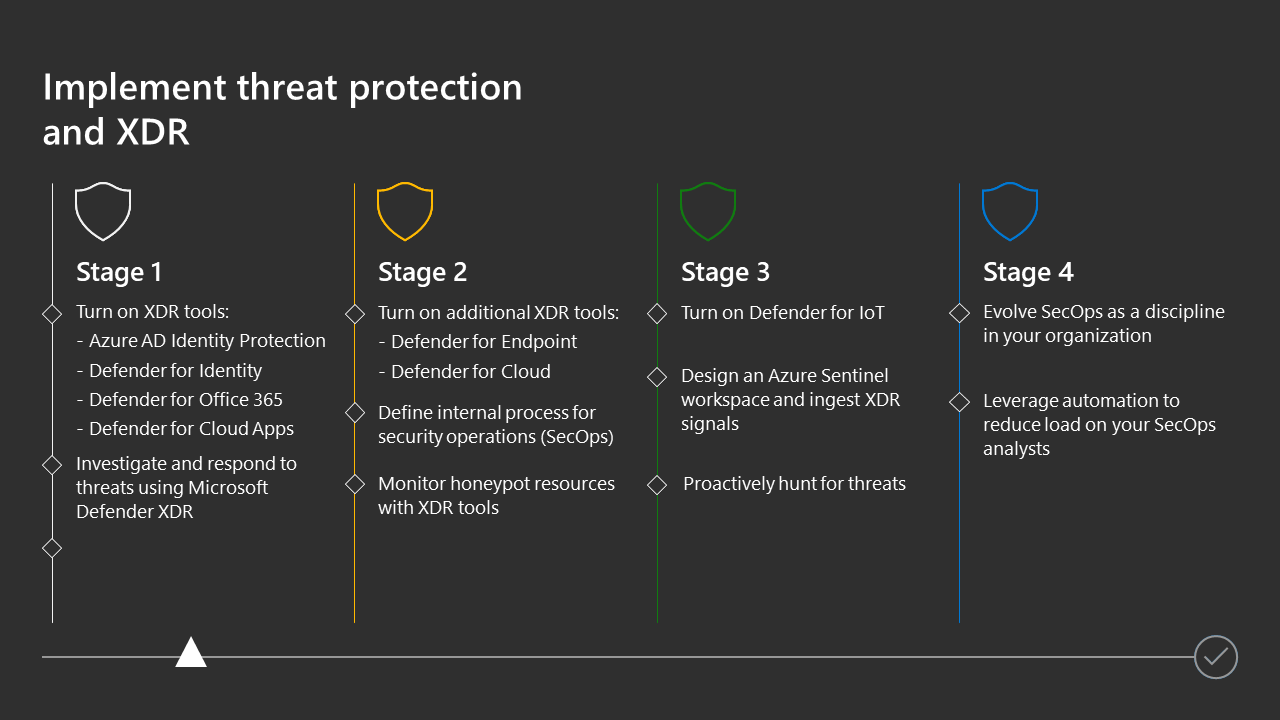
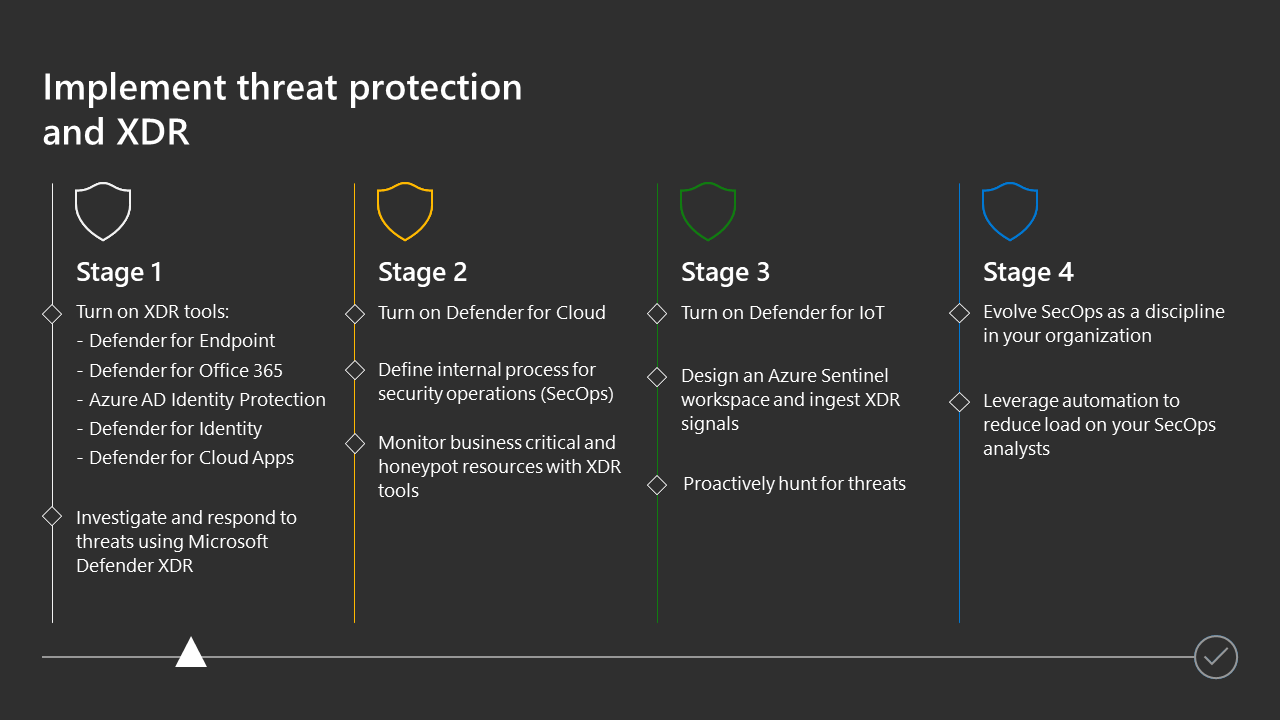
Tech review and editing changes.

Changed region(s): [[0.2812, 0.4278, 0.5, 0.7333], [0.0312, 0.4583, 0.25, 0.7944]]

diff --git a/zero-trust/adopt/prevent-reduce-business-damage-breach-threat-protection.md b/zero-trust/adopt/prevent-reduce-business-damage-breach-threat-protection.md
@@ -16,7 +16,7 @@ As part of Zero Trust adoption guidance, this article describes how to protect y
 
 For the elements of the “assume breach” Zero Trust guiding principle:
 
-- Use analytics to get visibility, drive threat detection, and improve defenses
+- **Use analytics to get visibility, drive threat detection, and improve defenses**
 
   Described in this article.
 
@@ -26,9 +26,7 @@ For the elements of the “assume breach” Zero Trust guiding principle:
 
  - Verify end-to-end encryption
 
-  Described in the [implement security breach prevention and recovery infrastructure](prevent-reduce-business-damage-breach-infrastructure.md) article.
-
-[Implement security breach prevention and recovery infrastructure](prevent-reduce-business-damage-breach-infrastructure.md)
+   Described in the [implement security breach prevention and recovery infrastructure](prevent-reduce-business-damage-breach-infrastructure.md) article.
 
 This article assumes that you have already [modernized your security posture](rapidly-modernize-security-posture.md).
 
@@ -66,7 +64,7 @@ The motivations for implementing threat protection and XDR are straightforward, 
 | Area | Motivations |
 | --- | --- |
 | Business needs | To prevent an impact on or disruption of your organization’s ability to perform normal business activities or being held for ransom, lower the cost of cyber insurance, and prevent regulatory fines. |
-| IT needs | To assist the Security Operations (SecOps) team in creating and maintaining honeypot resources to deceive and distract cyber attackers. |
+| IT needs | To assist the Security Operations (SecOps) team in creating and maintaining an integrated defense toolset to secure the assets important to the business. Integration and reporting should occur across asset classes and technologies and lower the effort required to provide predictable security outcomes. |
 | Operational needs | To keep your business processes operating through proactive detection and response to attacks in real time. |
 | Strategic needs | Minimize attack damage and costs and maintain your organization’s reputation with customers and partners. |
 
@@ -106,7 +104,7 @@ Technical adoption for implementing threat protection and XDR involves:
 
 Implementing threat protection and XDR also involves a few related activities, including:
 
-- Using the XDR tools to monitor the honeypot resources implemented in the [security breach prevention and recovery](prevent-reduce-business-damage-breach-infrastructure.md) article to lure attackers into showing their presence before they can attack your real resources.
+- Using the XDR tools to monitor both your business critical and honeypot resources, which you implemented in the [security breach prevention and recovery](prevent-reduce-business-damage-breach-infrastructure.md) article to lure attackers into showing their presence before they can attack your real resources.
 - Evolving your SecOps team to be aware of the latest attacks and their methods.
 
 Many organizations can take a four-staged approach to these deployment objectives, summarized in the following table.
@@ -114,7 +112,7 @@ Many organizations can take a four-staged approach to these deployment objective
 
 | Stage 1 | Stage 2 | Stage 3 | Stage 4 |
 | --- | --- | --- | --- |
-| Turn on XDR tools: <br> - Microsoft Entra ID Protection <br> - Defender for Identity <br> - Defender for Office 365 <br> - Defender for Cloud Apps <br><br> Investigate and respond to threats using Microsoft Defender XDR | Turn on additional XDR tools: <br>- Defender for Endpoint <br>- Defender for Cloud <br><br> Define internal process for security operations <br><br> Monitor honeypot resources with XDR tools | Turn on Defender for IoT <br><br> Design a Microsoft Sentinel workspace and ingest XDR signals <br><br> Proactively hunt for threats | Evolve SecOps as a discipline in your organization <br><br> Leverage automation to reduce load on your SecOps analysts |
+| Turn on XDR tools: <br>- Defender for Endpoint <br> - Defender for Office 365 <br> - Microsoft Entra ID Protection <br> - Defender for Identity  <br> - Defender for Cloud Apps <br><br> Investigate and respond to threats using Microsoft Defender XDR | Turn on Defender for Cloud <br><br> Define internal process for security operations <br><br> Monitor business critical and honeypot resources with XDR tools | Turn on Defender for IoT <br><br> Design a Microsoft Sentinel workspace and ingest XDR signals <br><br> Proactively hunt for threats | Evolve SecOps as a discipline in your organization <br><br> Leverage automation to reduce load on your SecOps analysts |
 
 If this staged approach works for your organization, you can share your progress with your teams and business leaders by downloading [this PowerPoint slide deck](https://download.microsoft.com/download/a/b/5/ab51ac2a-e9de-4c8f-8323-6bc7c2f78c1f/ZeroTrust-Adoption-Resources.pptx) to track your progress through these stages and objectives. Here's the initial slide for this business scenario.
 
@@ -143,17 +141,17 @@ This table summarizes roles that are recommended when building a sponsorship pro
 | Program lead from Data Security | Drive results and cross-team collaboration |
 | Security Architect | Advise on incident response strategies and practices, XDR tools and infrastructure, and SecOps team evolution |
 | SecOps lead | Implement incident response procedures, XDR infrastructure configuration, incident response automation, and the SecOps discipline in your organization |
-| Security for IT lead | Advise on, implement, and manage honeypot resources |
+| Security for IT lead | Advise on, implement, and manage business critical and honeypot resources |
 
 The [PowerPoint deck of resources](https://download.microsoft.com/download/a/b/5/ab51ac2a-e9de-4c8f-8323-6bc7c2f78c1f/ZeroTrust-Adoption-Resources.pptx) for this adoption content includes the following slide with a stakeholder view that you can customize for your own organization.
 
-:::image type="content" source="../media/adoption-guide/zero-trust-threat-protection-xdr-stakeholders.svg" alt-text="PowerPoint slide for the stakeholders of implementing threat detection and XDR." lightbox="../media/adoption-guide/zero-trust-threat-protection-xdr-stakeholders.svg":::
+:::image type="content" source="../media/adoption-guide/zero-trust-threat-protection-xdr-stakeholders.png" alt-text="PowerPoint slide for the stakeholders of implementing threat detection and XDR." lightbox="../media/adoption-guide/zero-trust-threat-protection-xdr-stakeholders.png":::
 
 ### Technical planning and skills readiness
 
 Before you embark on the technical work, Microsoft recommends getting to know the capabilities, how they work together, and best practices for approaching this work. 
 
-Because Zero Trust assumes breach, you must prepare for a breach. Adopt a breach response framework, based on [NIST](https://csrc.nist.gov/pubs/sp/800/61/r2/final), [ISO 27001](https://iso-docs.com/blogs/iso-27001-standard/iso-27001-annex-a-16-information-security-incident-management#:~:text=The%20ISO%2027001%20standard%20provides,comprehensive%20and%20up%20to%20date.), [CIS](https://www.cisecurity.org/controls/incident-response-management), or [MITRE](https://attack.mitre.org/) to lower the impact of a breach or cyberattack on your organization.
+Because Zero Trust assumes breach, you must prepare for a breach. Adopt a breach response framework based on [NIST](https://csrc.nist.gov/pubs/sp/800/61/r2/final), [ISO 27001](https://iso-docs.com/blogs/iso-27001-standard/iso-27001-annex-a-16-information-security-incident-management#:~:text=The%20ISO%2027001%20standard%20provides,comprehensive%20and%20up%20to%20date.), [CIS](https://www.cisecurity.org/controls/incident-response-management), or [MITRE](https://attack.mitre.org/) to lower the impact of a breach or cyberattack on your organization.
 
 The following table includes several Microsoft training resources to help your security teams gain skills.
 
@@ -170,15 +168,15 @@ The Stage 1 deployment objectives include enabling your primary Microsoft XDR to
 
 ##### Turn on XDR tools
 
-Start with the core suite of XDR tools to protect your organization from attacks on identities and cloud-based applications.
+Start with the core suite of XDR tools to protect your organization from attacks on devices, identities, and cloud-based applications.
 
 | Resource | Description |
 |:-----|:-----|
-| [Microsoft Entra ID Identity Protection](/entra/id-protection/overview-identity-protection) | Helps organizations detect, investigate, and remediate identity-based risks. These identity-based risks can be further fed into tools like Entra Conditional Access to make access decisions or fed back to a security information and event management (SIEM) tool for further investigation and correlation. |
-| [Defender for Identity](/defender-for-identity/what-is) | 
-Leverages signals from both on-premises Active Directory and cloud identities to help you better identify, detect, and investigate advanced threats directed at your organization. |
+| [Microsoft Defender for Endpoint](/microsoft-365/security/defender-endpoint/microsoft-defender-endpoint) | An enterprise endpoint security platform to help your enterprise network prevent, detect, investigate, and respond to advanced threats against devices, which may include laptops, phones, tablets, PCs, access points, routers, and firewalls. |
 | [Defender for Office 365](/microsoft-365/security/office-365-security/mdo-about) | A seamless integration into your Microsoft 365 or Office 365 subscription that protects against threats in email, links (URLS), attachments, and collaboration tools. |
-| [Defender for Cloud Apps](/defender-cloud-apps/what-is-defender-for-cloud-apps | Delivers full protection for SaaS applications, helping you monitor and protect your cloud app data. |
+| [Microsoft Entra ID Identity Protection](/entra/id-protection/overview-identity-protection) | Helps organizations detect, investigate, and remediate identity-based risks. These identity-based risks can be further fed into tools like Entra Conditional Access to make access decisions or fed back to a security information and event management (SIEM) tool for further investigation and correlation. |
+| [Defender for Identity](/defender-for-identity/what-is) | Leverages signals from both on-premises Active Directory and cloud identities to help you better identify, detect, and investigate advanced threats directed at your organization. |
+| [Defender for Cloud Apps](/defender-cloud-apps/what-is-defender-for-cloud-apps) | Delivers full protection for SaaS applications, helping you monitor and protect your cloud app data. |
 
 ##### Investigate and respond to threats using Microsoft Defender XDR
 
@@ -189,30 +187,19 @@ Now that you have enabled the primary XDR tools, you can begin using Microsoft D
 | [Integrating Microsoft 365 XDR into your security operations](/microsoft-365/security/defender/integrate-microsoft-365-defender-secops)	| Carefully plan your integration with your SecOps team to optimize the day-to-day operations and lifecycle management of the tools in the Microsoft Defender XDR. |
 | [Incident response with Microsoft Defender XDR](/microsoft-365/security/defender/incidents-overview) | How to use Microsoft Defender XDR to analyze alerts and incidents and incorporate best practices into your SecOps procedures and processes. |
 | [Investigate incidents with Microsoft Defender XDR](/microsoft-365/security/defender/investigate-incidents) | How to analyze the alerts that affect your network, understand what they mean, and collate the evidence so that you can devise an effective remediation plan. |
-| [Module: Mitigate incidents with Microsoft Defender XDR](/training/modules/mitigate-incidents-microsoft-365-defender/) | Learn how the Microsoft Defender XDR portal provides a unified view of incidents and alerts from the Microsoft Defender XDR family of products. |
-| [Learning Path: Mitigate threats using Microsoft Defender XDR](/training/paths/sc-200-mitigate-threats-using-microsoft-365-defender/) | Analyze threat data across domains and rapidly remediate threats with built-in orchestration and automation in Microsoft Defender XDR. |
+| Module: [Mitigate incidents with Microsoft Defender XDR](/training/modules/mitigate-incidents-microsoft-365-defender/) | Learn how the Microsoft Defender XDR portal provides a unified view of incidents and alerts from the Microsoft Defender XDR family of products. |
+| Learning Path: [Mitigate threats using Microsoft Defender XDR](/training/paths/sc-200-mitigate-threats-using-microsoft-365-defender/) | Analyze threat data across domains and rapidly remediate threats with built-in orchestration and automation in Microsoft Defender XDR. |
 
 #### Stage 2
 
-In this stage, you enable additional XDR tools for devices and for Azure and on-premises resources, create or update your SecOps processes and procedures for Microsoft threat protection and XDR services, and take advantage of your honeypot resources to catch cyber attackers early in the breach.
+In this stage, you enable additional XDR tools for Azure and on-premises resources, create or update your SecOps processes and procedures for Microsoft threat protection and XDR services, and monitor your business critical and honeypot resources to detect cyber attackers early in the breach.
 
-##### Turn on additional XDR tools
+##### Turn on Microsoft Defender for Cloud
 
-To protect additional resources, utilize these XDR tools:
-
-- Microsoft Defender for Endpoint
-
-  An enterprise endpoint security platform to help your enterprise network prevent, detect, investigate, and respond to advanced threats against devices, which may include laptops, phones, tablets, PCs, access points, routers, and firewalls.
-
-- Microsoft Defender for Cloud
-
-A cloud-native application protection platform (CNAPP) designed to protect cloud-based applications from various cyber threats and vulnerabilities. Use Microsoft Defender for Cloud for Azure, hybrid cloud, and on-premises workload protection and security.
+Microsoft Defender for Cloud is a cloud-native application protection platform (CNAPP) designed to protect cloud-based applications from various cyber threats and vulnerabilities. Use Microsoft Defender for Cloud for Azure, hybrid cloud, and on-premises workload protection and security.
 
 | Resource | Description |
 |:-----|:-----|
-| [Microsoft Defender for Endpoint](/microsoft-365/security/defender-endpoint/microsoft-defender-endpoint) | Get started with the documentation set. |
-| Module: [Protect against threats with Microsoft Defender for Endpoint](/training/modules/m365-security-threat-protect/) | Learn how to hunt for threats and remediate risks for your devices. |
-| Learning Path: [Mitigate threats using Microsoft Defender for Endpoint](/training/paths/sc-200-mitigate-threats-using-microsoft-defender-for-endpoint/) | Learn how to detect, investigate, and respond to advanced threats on your devices.  |
 | [Microsoft Defender for Cloud](/azure/defender-for-cloud/defender-for-cloud-introduction) | Get started with the documentation set. |
 | [Security alerts and incidents for Microsoft Defender for Cloud](/azure/defender-for-cloud/alerts-overview) | Use Microsoft Defender for Cloud Security to perform incident response for your Azure, hybrid cloud, and on-premises workloads. |
 | Module: [Remediate security alerts using Microsoft Defender for Cloud](/training/modules/remediate-azure-defender-security-alerts/) | Learn how to hunt for threats and remediate risks for your Azure, hybrid cloud, and on-premises workloads.  |
@@ -230,14 +217,14 @@ With the Microsoft XDR tools in place, ensure that their use is integrated into 
 | [Integrating Microsoft 365 XDR into your security operations](/microsoft-365/security/defender/integrate-microsoft-365-defender-secops) | Carefully plan your integration with your SecOps team to optimize the day-to-day operations and lifecycle management tools in the Microsoft Defender XDR. |
 | [Six Tabletop Exercises to Help Prepare Your Cybersecurity Team](https://www.cisecurity.org/insights/white-papers/six-tabletop-exercises-prepare-cybersecurity-team) | Use these exercises provided by the Center for Internet Security (CIS) to prepare your SecOps team. |
 
-##### Monitor honeypot resources with XDR tools
+##### Monitor business critical and honeypot resources with XDR tools
 
-Your deployed honeypot resources act as a target for cyber attackers and can be used to detect their activities early before they move on to real targets and cause business damage. Focus part of your threat detection and hunting on monitoring your honeypot resources, such as user accounts, devices, mailboxes, and SharePoint, Teams, or on-premises files.
+Your deployed honeypot resources act as a target for cyber attackers and can be used to detect their activities early before they move on to real targets and cause business damage. Focus part of your threat detection and hunting on monitoring both your business critical and honeypot resources.
 
 | Resource | Description |
 |:-----|:-----|
-| [Incident response with Microsoft Defender XDR](/microsoft-365/security/defender/incidents-overview) | Use Microsoft Defender XDR to spot incidents with alerts that affect your honeypot resources, such as identities, devices, and cloud apps. |
-| [Security alerts and incidents for Microsoft Defender for Cloud](/azure/defender-for-cloud/alerts-overview) | Use Microsoft Defender for Cloud Security to search for alerts are triggered by advanced detections for your honeypot resources, such as Azure, hybrid cloud, and on-premises workloads. |
+| [Incident response with Microsoft Defender XDR](/microsoft-365/security/defender/incidents-overview) | Use Microsoft Defender XDR to spot incidents with alerts that affect your business critical and honeypot resources. |
+| [Security alerts and incidents for Microsoft Defender for Cloud](/azure/defender-for-cloud/alerts-overview) | Use Microsoft Defender for Cloud to search for alerts triggered by advanced detections for your business critical and honeypot resources, such as Azure, hybrid cloud, and on-premises workloads. |
 
 #### Stage 3
 
@@ -267,7 +254,7 @@ Microsoft Sentinel is a cloud-native solution that provides security information
 
 ##### Proactively hunt for threats
 
-Now that your XDR and SIEM infrastructure is in place, you and your SecOps team can take the initiative and proactively hunt for threats in progress in your environment instead of acting reactively to attacks that have already caused damage.
+Now that your XDR and SIEM infrastructure is in place, your SecOps team can take the initiative and proactively hunt for threats in progress in your environment instead of acting reactively to attacks that have already caused damage.
 
 | Resource | Description |
 |:-----|:-----|

diff --git a/zero-trust/adopt/prevent-reduce-business-damage-breach-infrastructure.md b/zero-trust/adopt/prevent-reduce-business-damage-breach-infrastructure.md
@@ -16,11 +16,11 @@ As part of Zero Trust adoption guidance, this article is part of the part of the
 
 For the elements of the “assume breach” Zero Trust guiding principle:
 
-- Minimize blast radius and segment access
+- **Minimize blast radius and segment access**
 
   Described in this article.
 
- - Verify end-to-end encryption
+ - **Verify end-to-end encryption**
 
    Described in this article.
  
@@ -40,7 +40,7 @@ The following table is an accessible version of the illustration.
 
 | Define strategy| Plan| Ready| Adopt| Govern and manage |
 | --- | --- | --- | --- | --- |
-| Outcomes <br><br> Organizational alignment <br><br> Strategic goals| Stakeholder team <br><br> Technical plans <br><br> Skills readiness| Evaluate <br><br> Test <br><br> Pilot| Incrementally implement across your digital estate | Track and measure <br><br> Monitor and detect <br><br> Iterate for maturity |
+| Outcomes <br><br> Organizational alignment <br><br> Strategic goals| Stakeholder team <br><br> Technical plans <br><br> Skills readiness| Evaluate <br><br> Test <br><br> Pilot | Incrementally implement across your digital estate | Track and measure <br><br> Monitor and detect <br><br> Iterate for maturity |
 
 Read more about the Zero Trust adoption cycle in the [Zero Trust adoption framework overview](zero-trust-adoption-overview.md).
 
@@ -145,7 +145,7 @@ This table summarizes roles that are recommended when building a sponsorship pro
 
 The [PowerPoint deck of resources](https://download.microsoft.com/download/a/b/5/ab51ac2a-e9de-4c8f-8323-6bc7c2f78c1f/ZeroTrust-Adoption-Resources.pptx) for this adoption content includes the following slide with a stakeholder view that you can customize for your own organization.
 
-:::image type="content" source="../media/adoption-guide/zero-trust-breach-prevention-recovery-stakeholders.svg" alt-text="PowerPoint slide for the stakeholders of implementing breach prevention and recovery." lightbox="../media/adoption-guide/zero-trust-breach-prevention-recovery-stakeholders.svg":::
+:::image type="content" source="../media/adoption-guide/zero-trust-breach-prevention-recovery-stakeholders.png" alt-text="PowerPoint slide for the stakeholders of implementing breach prevention and recovery." lightbox="../media/adoption-guide/zero-trust-breach-prevention-recovery-stakeholders.png":::
 
 ### Technical planning and skills readiness
 
@@ -171,7 +171,7 @@ Cybersecurity incidents typically begin with a credential theft of some sort. At
 
 Once in your network, attackers try to elevate their level of privilege by compromising accounts with more and more access. The goal is to compromise a privileged account that has access to a wide swath of not only sensitive data, but to administrative settings as well. Therefore, it is imperative that you prevent this level of access to attackers.
 
-First, for hybrid identity organizations, you must ensure that administrator accounts or accounts holding privileged roles that are used for cloud services aren’t synchronized with and stored in on-premises Active Directory Domain Services (AD DS). If they are stored in stored in on-premises and AD DS or Microsoft Entra Connect is compromised, an attacker can have administrative control to your Microsoft cloud services. Review your synchronization settings to prevent and test whether your cloud administrator accounts are present in your AD DS.
+First, for hybrid identity organizations, you must ensure that administrator accounts or accounts holding privileged roles that are used for cloud services aren’t synchronized with and stored in on-premises Active Directory Domain Services (AD DS). If they are stored on-premises and AD DS or Microsoft Entra Connect is compromised, an attacker can have administrative control to your Microsoft cloud services. Review your synchronization settings to prevent and test whether your cloud administrator accounts are present in your AD DS.
 
 All organizations with a Microsoft cloud subscription have an Entra ID tenant that contains cloud accounts, which include user and administrative accounts. Administrators need to perform privileged operations in Microsoft Entra ID, Azure, Microsoft 365, or SaaS apps. 
 
@@ -268,7 +268,7 @@ This objective is more of a check to be sure your network traffic is encrypted. 
 
 | Recommendations | Resource |
 | --- | --- |
-| Ensure user-to-app internal traffic is encrypted: <br><br> - Enforce HTTPS-only communication for your internet-facing web applications. <br><br> - Connect remote employees and partners to Microsoft Azure using [Azure VPN Gateway](/azure/vpn-gateway/vpn-gateway-about-vpngateways). <br><br> - Access your Azure virtual machines securely using encrypted communication through [Azure Bastion](/azure/bastion/bastion-overview). | [Secure networks with Zero Trust-Objective 3: User-to-app internal traffic is encrypted](/security/zero-trust/deploy/networks#iii-encryption-user-to-app-internal-traffic-is-encrypted) |
+| Ensure user-to-app internal traffic is encrypted: <br><br> - Enforce HTTPS-only communication for your internet-facing web applications. <br> - Connect remote employees and partners to Microsoft Azure using [Azure VPN Gateway](/azure/vpn-gateway/vpn-gateway-about-vpngateways). <br>- Access your Azure virtual machines securely using encrypted communication through [Azure Bastion](/azure/bastion/bastion-overview). | [Secure networks with Zero Trust-Objective 3: User-to-app internal traffic is encrypted](/security/zero-trust/deploy/networks#iii-encryption-user-to-app-internal-traffic-is-encrypted) |
 | Encrypt application backend traffic between virtual networks.<br><br> Encrypt traffic between on-premises and cloud. | [Secure networks with Zero Trust-Objective 6: All traffic is encrypted](/security/zero-trust/deploy/networks#vi-encryption-all-traffic-is-encrypted) |
 | For network architects, this article helps put recommended networking concepts into perspective. Ed Fisher, Security & Compliance Architect at Microsoft, describes how to optimize your network for cloud connectivity by avoiding the most common pitfalls. | [Networking up (to the cloud)-One architect's viewpoint](/microsoft-365/solutions/networking-design-principles) |
 
@@ -278,7 +278,7 @@ The Stage 2 deployment objectives include segmenting your network to exercise be
 
 ##### Segment your network
 
-This objective is to create boundaries on your network so that intermediate analysis and filtering to protect sensitive servers, applications, and data. Network segmentation can occur for on-premises servers or in the cloud, for example, with virtual machines hosted on virtual networks (VNets) in Azure IaaS.
+This objective is to create boundaries on your network so that intermediate analysis and filtering can protect sensitive servers, applications, and data. Network segmentation can occur for on-premises servers or in the cloud, for example, with virtual machines hosted on virtual networks (VNets) in Azure IaaS.
 
 | Recommendations | Resource |
 |:-----|:-----|
@@ -309,7 +309,7 @@ Also consider updates and patches needed by other devices, especially those that
 
 ##### Create honeypot resources
 
-You deliberately create honeypot resources—such as [identities](https://techcommunity.microsoft.com/t5/microsoft-365-defender-blog/deceptive-defense-best-practices-for-identity-based-honeytokens/ba-p/3851641), file shares, applications, and service accounts—so that can be discovered by attackers. These resources are dedicated to attracting and deceiving attackers and aren’t part of your normal IT infrastructure. 
+You deliberately create honeypot resources—such as [identities](https://techcommunity.microsoft.com/t5/microsoft-365-defender-blog/deceptive-defense-best-practices-for-identity-based-honeytokens/ba-p/3851641), file shares, applications, and service accounts—so they can be discovered by attackers. These resources are dedicated to attracting and deceiving attackers and aren’t part of your normal IT infrastructure. 
 
 Your honeypot resources should reflect typical targets for attackers. 
 For example:
@@ -371,7 +371,7 @@ If not, begin your planning process for general BCDR and include cyberattacks as
 - BC plans ensure that the business can function normally in the event of a crisis.
 - DR plans include contingencies to recover from loss of data or infrastructure through backups of data and replacement or recovery of infrastructure. 
 
-  DR plans should include detailed procedures recovering your IT systems and processes to restore business operations. These plans should have an off-line backup, such as on portable media stored in a location with physical security in place. Attackers can hunt for these types of IT recovery plans in your on-premises and cloud locations and destroy them as part of a ransomware attack. Because the destruction of these plans will make it more costly for you to restore your business operations, the attackers can demand more ransom.
+  DR plans should include detailed procedures for recovering your IT systems and processes to restore business operations. These plans should have an off-line backup, such as on portable media stored in a location with physical security in place. Attackers can hunt for these types of IT recovery plans in your on-premises and cloud locations and destroy them as part of a ransomware attack. Because the destruction of these plans will make it more costly for you to restore your business operations, the attackers can demand more ransom.
 
 Microsoft 365 Backup, Azure Backup, and Azure Site Recovery described in this article are examples of BCDR technologies.
 
@@ -442,8 +442,8 @@ Governance of your organization’s ability to implement breach prevention and r
 | Objective | Tasks |
 |:-----|:-----|
 | Track and measure | Assign owners for critical actions and projects, such as IT admin education and honeypot resource management, patch management, networking security, and BCDR procedures. <br><br> Create actionable plans with dates for each action and project, and instrument progress using reports and dashboards. |
-| Monitor | - Track PIM requests and resulting actions. <br><br> - Monitor access to honeypot resources. <br><br> - Monitor systems to be patched for update installation failures. <br><br> - Test BCDR procedures for completeness and restoration integrity.  |
-| Iterate for maturity | - Survey networking infrastructure for additional legacy systems that can be removed. <br><br> - Adapt BCDR infrastructure for new resources and features.  |
+| Monitor | - Track PIM requests and resulting actions. <br>- Monitor access to honeypot resources. <br>- Monitor systems to be patched for update installation failures. <br>- Test BCDR procedures for completeness and restoration integrity.  |
+| Iterate for maturity | - Survey networking infrastructure for additional legacy systems that can be removed. <br>- Adapt BCDR infrastructure for new resources and features.  |
 
 ## Next Steps
 

diff --git a/zero-trust/adopt/prevent-reduce-business-damage-breach.md b/zero-trust/adopt/prevent-reduce-business-damage-breach.md
@@ -32,7 +32,7 @@ Your organization’s health and reputation depend on your security strategy. Wi
 
 | Traditional threat protection with private network controls | Modern threat protection with Zero Trust |
 | --- | --- |
-| Traditional protection relies on perimeter-based security, where you trust everyone inside the private network. <br><br> Perimeter networks can include: <br><br> - Little network segmentation or security perimeters and open, flat networks. <br><br> - Minimal threat protection and static traffic filtering. <br><br> - Unencrypted internal traffic.	| The Zero Trust model moves network defenses from static, network-based perimeters to focus on users, devices, assets, and resources. <br><br> Assume that a breach can and will happen. Security risks can exist inside and outside your network, you are constantly under attack, and a security incident can happen at any time. A comprehensive and modern threat protection infrastructure can provide timely attack detection and response. <br><br> Minimize the blast radius of security incidents with layers of protection that, together, reduce the extent of the damage and how fast it can spread. |
+| Traditional protection relies on perimeter-based security, where you trust everyone inside the private network. <br><br> Perimeter networks can include: <br><br> - Little network segmentation or security perimeters and open, flat networks. <br> - Minimal threat protection and static traffic filtering. <br> - Unencrypted internal traffic.	| The Zero Trust model moves network defenses from static, network-based perimeters to focus on users, devices, assets, and resources. <br><br> Assume that a breach can and will happen. Security risks can exist inside and outside your network, you are constantly under attack, and a security incident can happen at any time. A comprehensive and modern threat protection infrastructure can provide timely attack detection and response. <br><br> Minimize the blast radius of security incidents with layers of protection that, together, reduce the extent of the damage and how fast it can spread. |
 
 To reduce the impact of a significant incident, all the following are essential:
 
@@ -72,11 +72,11 @@ Business requirements are dependent on the resulting risk analysis for your busi
 
 - Retail
 
-The major risks related to breach within the retail industry can arise with there are multiple domains for multiple brands that live within the same tenant. The complexities of managing on-premises or cloud-based identities can create vulnerabilities.
+  The major risks related to breach within the retail industry can arise when there are multiple domains for multiple brands that live within the same tenant. The complexities of managing on-premises or cloud-based identities can create vulnerabilities.
 
 - Health Sector
 
-The major risks within the health sector are data loss. The unauthorized disclosure of confidential medical records may be a direct threat to data and information privacy laws that are reserved for patients and clients alike and, based on local regulations, can incur substantial penalties.
+  The major risks within the health sector are data loss. The unauthorized disclosure of confidential medical records may be a direct threat to data and information privacy laws that are reserved for patients and clients alike and, based on local regulations, can incur substantial penalties.
 
 - Government Sector
 
@@ -142,8 +142,8 @@ The following table provides reasons why business leaders across an organization
 | --- | --- |
 | Chief Executive Officer (CEO) | The business must be empowered to achieve its strategic goals and objectives, irrespective of the cybersecurity climate. Business agility and business execution shouldn’t be constrained because of an incident or breach. Business leaders should understand that security is part of business imperatives and investment in both breach prevention and breach preparedness is required to ensure business continuity. The cost of a successful and destructive cyberattack can be a lot more than the price of implementing security measures. |
 | Chief Marketing Officer (CMO) | How the business is perceived both internally and externally shouldn’t be restricted based on a breach occurring or breach readiness. Learning how to communicate breach readiness and messaging internally and externally in response to a breach is a matter of preparation. A successful attack can become public knowledge, potentially harming brand value, unless a breach communication plan exists. |
-| Chief Information Officer (CIO) | The applications used by the company must be resilient to attack while securing the company's data. Security should be a measurable outcome and aligned with IT strategy. Breach prevention and breach management must be aligned with data integrity, privacy, and availability. |
-| Chief Information Security Officer (CISO) | The technologies used to prevent a breach don’t scale to a zero-day attack, nor can they defend a poorly maintained IT infrastructure. For example, technology three years old or older might be highly susceptible to attacks that use modern attack methods. | 
+| Chief Information Officer (CIO) | The applications used by your organization must be resilient to attack while securing your organization's data. Security should be a measurable outcome and aligned with IT strategy. Breach prevention and breach management must be aligned with data integrity, privacy, and availability. |
+| Chief Information Security Officer (CISO) | Security must be aligned as a business imperative to the C-Suite. Breach readiness and response is aligned to achieving the primary business strategies, with technology security aligned to mitigation of business risk.  | 
 |Chief Operations Officer (COO) | The incident response process hinges on the leadership and strategic guidance provided by this role. It is imperative that preventive and responsive actions are carried out as aligned to corporate strategy. <br><br> Breach preparation in an “assume breach” posture means that all disciplines reporting to the COO must function at a level of breach readiness, ensuring that a breach can be isolated and mitigated quickly without pausing your business. |
 | Chief Financial Officer (CFO) | Breach preparation and mitigation is a function of budgeted security spend. Financial systems must be robust and can survive a breach. Financial data must be classified, secured, and backed up as a sensitive dataset. |
 
